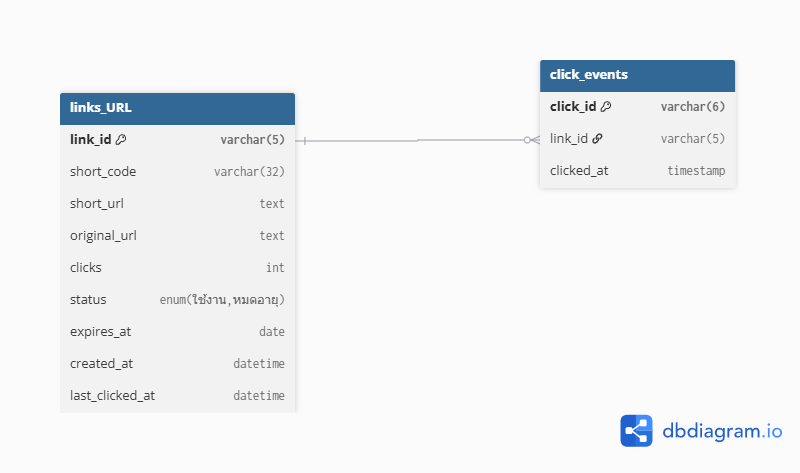
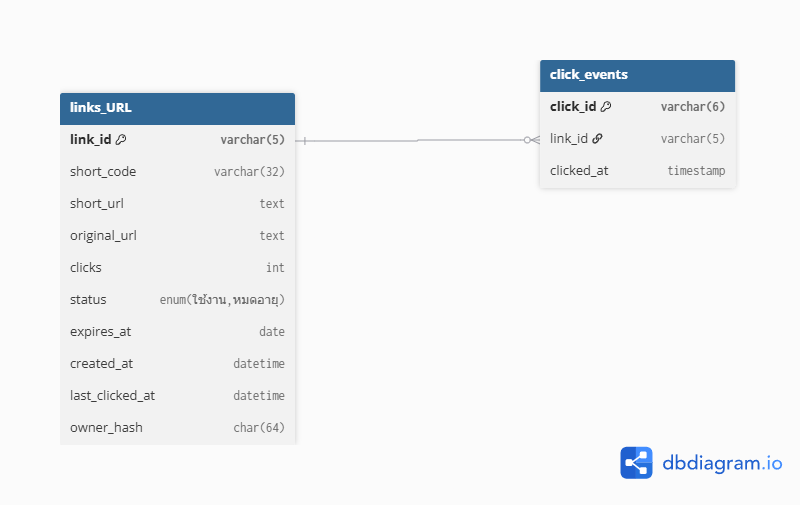
Scope link history to browser owners

diff --git a/Short_URL/src/App.jsx b/Short_URL/src/App.jsx
@@ -239,7 +239,7 @@ function App() {
         <section className="summary-grid" id="stats" aria-label="สถิติลิงก์">
           <article className="summary-card teal-card">
             <div className="summary-icon"><FiLink2 /></div>
-            <div><p>ลิงก์ทั้งหมด</p><strong>{links.length}</strong><small>เฉพาะลิงก์ที่คุณสร้าง</small></div>
+            <div><p>ลิงก์ทั้งหมด</p><strong>{links.length}</strong></div>
           </article>
           <article className="summary-card blue-card">
             <div className="summary-icon"><FiBarChart2 /></div>
@@ -258,7 +258,6 @@ function App() {
         <section className="recent" id="recent">
           <div className="section-title">
             <div>
-              <small>ลิงก์ของฉัน</small>
               <h2>ลิงก์ที่สร้างล่าสุด</h2>
             </div>
               <div className="live-status"><i /> อัปเดตเรียลไทม์</div>

diff --git a/backend/modals/Links_URL.php b/backend/modals/Links_URL.php
@@ -1,10 +1,11 @@
 <?php
 final class Links_URL {
- public $link_id=null; public $original_url=''; public $short_code=null; public $status='active'; public $expires_at=null; private $pdo; private $redirectUrl;
+ public $link_id=null; public $original_url=''; public $short_code=null; public $status='active'; public $expires_at=null; public $owner_hash=null; private $pdo; private $redirectUrl;
  public function __construct(PDO $pdo,string $redirectUrl){$this->pdo=$pdo;$this->redirectUrl=$redirectUrl;}
  private function rows(string $where=''):string { return "SELECT link_id,short_code,short_url,original_url,clicks,status,expires_at,created_at,last_clicked_at FROM links_URL $where"; }
- public function create():void { $url=filter_var(trim($this->original_url),FILTER_VALIDATE_URL); if(!$url||!in_array(strtolower(parse_url($url,PHP_URL_SCHEME)?:''),['http','https'],true))throw new InvalidArgumentException('กรุณากรอก URL ที่ขึ้นต้นด้วย http:// หรือ https://'); $code=trim((string)$this->short_code);if($code==='')$code=substr(bin2hex(random_bytes(5)),0,7);if(!preg_match('/^[A-Za-z0-9_-]{3,32}$/',$code))throw new InvalidArgumentException('นามแฝงใช้ได้เฉพาะ a-z, A-Z, 0-9, _ และ - จำนวน 3-32 ตัว');$driver=$this->pdo->getAttribute(PDO::ATTR_DRIVER_NAME);$numberSql=$driver==='mysql'?'CAST(SUBSTRING(link_id,2) AS UNSIGNED)':'CAST(SUBSTR(link_id,2) AS INTEGER)';$next=(int)$this->pdo->query("SELECT COALESCE(MAX($numberSql),0)+1 FROM links_URL")->fetchColumn();$this->link_id='L'.str_pad((string)$next,4,'0',STR_PAD_LEFT);$this->short_code=$code;$shortUrl=$this->redirectUrl.$code;$createdAt=gmdate('Y-m-d H:i:s');$s=$this->pdo->prepare('INSERT INTO links_URL(link_id,short_code,short_url,original_url,clicks,status,expires_at,created_at) VALUES(?,?,?,?,0,?,?,?)');$s->execute([$this->link_id,$code,$shortUrl,$url,$this->status,$this->expires_at,$createdAt]); }
+ public function create():void { $url=filter_var(trim($this->original_url),FILTER_VALIDATE_URL); if(!$url||!in_array(strtolower(parse_url($url,PHP_URL_SCHEME)?:''),['http','https'],true))throw new InvalidArgumentException('กรุณากรอก URL ที่ขึ้นต้นด้วย http:// หรือ https://'); $code=trim((string)$this->short_code);if($code==='')$code=substr(bin2hex(random_bytes(5)),0,7);if(!preg_match('/^[A-Za-z0-9_-]{3,32}$/',$code))throw new InvalidArgumentException('นามแฝงใช้ได้เฉพาะ a-z, A-Z, 0-9, _ และ - จำนวน 3-32 ตัว');$driver=$this->pdo->getAttribute(PDO::ATTR_DRIVER_NAME);$numberSql=$driver==='mysql'?'CAST(SUBSTRING(link_id,2) AS UNSIGNED)':'CAST(SUBSTR(link_id,2) AS INTEGER)';$next=(int)$this->pdo->query("SELECT COALESCE(MAX($numberSql),0)+1 FROM links_URL")->fetchColumn();$this->link_id='L'.str_pad((string)$next,4,'0',STR_PAD_LEFT);$this->short_code=$code;$shortUrl=$this->redirectUrl.$code;$createdAt=gmdate('Y-m-d H:i:s');$s=$this->pdo->prepare('INSERT INTO links_URL(link_id,short_code,short_url,original_url,clicks,status,expires_at,created_at,owner_hash) VALUES(?,?,?,?,0,?,?,?,?)');$s->execute([$this->link_id,$code,$shortUrl,$url,$this->status,$this->expires_at,$createdAt,$this->owner_hash]); }
  public function read():PDOStatement{return $this->pdo->query($this->rows('ORDER BY created_at DESC'));}
+ public function readForOwner(string $ownerHash):PDOStatement{$s=$this->pdo->prepare($this->rows('WHERE owner_hash=? ORDER BY created_at DESC'));$s->execute([$ownerHash]);return $s;}
  public function readById(string $id):PDOStatement{$s=$this->pdo->prepare($this->rows('WHERE link_id=?'));$s->execute([$id]);return $s;}
  public function update():void{$s=$this->pdo->prepare('UPDATE links_URL SET original_url=?,status=?,expires_at=? WHERE link_id=?');$s->execute([$this->original_url,$this->status,$this->expires_at,$this->link_id]);}
  public function deleteByLinkId(string $id):bool{$s=$this->pdo->prepare('DELETE FROM links_URL WHERE link_id=?');$s->execute([$id]);return $s->rowCount()>0;}

diff --git a/backend/config/database.php b/backend/config/database.php
@@ -3,12 +3,17 @@ final class Database
 {
     public function getConnection()
     {
+        $localConfigPath = __DIR__ . '/database.local.php';
+        $localConfig = is_file($localConfigPath) ? require $localConfigPath : [];
+        if (!is_array($localConfig)) {
+            throw new RuntimeException('Invalid local database configuration');
+        }
         $isProduction = isset($_SERVER['HTTP_HOST']) && stripos($_SERVER['HTTP_HOST'], 'short-url.lnw.mn') !== false;
         $dsn          = getenv('DB_DSN') ?: ($isProduction
                 ? 'mysql:host=localhost;dbname=shorturlln_short_url;charset=utf8mb4'
                 : 'sqlite:' . __DIR__ . '/../data/short_url.sqlite');
         $username = getenv('DB_USERNAME') ?: ($isProduction ? 'shorturlln_short_url' : null);
-        $password = getenv('DB_PASSWORD') ?: null;
+        $password = getenv('DB_PASSWORD') ?: ($localConfig['password'] ?? null);
         if (strpos($dsn, 'sqlite:') === 0) {
             $directory = dirname(substr($dsn, 7));
             if (! is_dir($directory)) {
@@ -23,8 +28,10 @@ final class Database
         ]);
         if ($pdo->getAttribute(PDO::ATTR_DRIVER_NAME) === 'sqlite') {
             self::ensureSchema($pdo);
+            self::ensureOwnerColumn($pdo);
         } else {
             self::migrateMysqlSchema($pdo);
+            self::ensureOwnerColumn($pdo);
             if ($isProduction) {
                 $pdo->exec("UPDATE links_URL SET short_url = CONCAT('https://short-url.lnw.mn/', short_code) WHERE short_url LIKE '%/api/redirect.php?code=%'");
             }
@@ -48,9 +55,23 @@ final class Database
     {
         $driver = $pdo->getAttribute(PDO::ATTR_DRIVER_NAME);
         $id     = $driver === 'mysql' ? 'INTEGER PRIMARY KEY AUTO_INCREMENT' : 'INTEGER PRIMARY KEY AUTOINCREMENT';
-        $pdo->exec("CREATE TABLE IF NOT EXISTS links_URL (id $id, link_id VARCHAR(5) NOT NULL UNIQUE, short_code VARCHAR(32) NOT NULL UNIQUE, short_url TEXT NOT NULL, original_url TEXT NOT NULL, clicks INTEGER NOT NULL DEFAULT 0, status VARCHAR(20) NOT NULL DEFAULT 'active', expires_at DATE NULL, created_at DATETIME NOT NULL DEFAULT CURRENT_TIMESTAMP, last_clicked_at DATETIME NULL)");
+        $pdo->exec("CREATE TABLE IF NOT EXISTS links_URL (id $id, link_id VARCHAR(5) NOT NULL UNIQUE, short_code VARCHAR(32) NOT NULL UNIQUE, short_url TEXT NOT NULL, original_url TEXT NOT NULL, clicks INTEGER NOT NULL DEFAULT 0, status VARCHAR(20) NOT NULL DEFAULT 'active', expires_at DATE NULL, created_at DATETIME NOT NULL DEFAULT CURRENT_TIMESTAMP, last_clicked_at DATETIME NULL, owner_hash CHAR(64) NULL)");
         $pdo->exec("CREATE TABLE IF NOT EXISTS click_events (id $id, click_id VARCHAR(6) NOT NULL UNIQUE, link_id VARCHAR(5) NOT NULL, clicked_at DATETIME NOT NULL DEFAULT CURRENT_TIMESTAMP, FOREIGN KEY (link_id) REFERENCES links_URL(link_id) ON DELETE CASCADE)");
         try { $pdo->exec('CREATE INDEX idx_click_events_link_id ON click_events(link_id)');} catch (PDOException $e) {}
+    }
+
+    private static function ensureOwnerColumn(PDO $pdo): void
+    {
+        $driver = $pdo->getAttribute(PDO::ATTR_DRIVER_NAME);
+        if ($driver === 'sqlite') {
+            $columns = $pdo->query('PRAGMA table_info(links_URL)')->fetchAll();
+            $names = array_column($columns, 'name');
+        } else {
+            $names = $pdo->query('SHOW COLUMNS FROM links_URL')->fetchAll(PDO::FETCH_COLUMN);
+        }
+        if (!in_array('owner_hash', $names, true)) {
+            $pdo->exec('ALTER TABLE links_URL ADD COLUMN owner_hash CHAR(64) NULL');
+        }
     }
 }
 $pdo = (new Database())->getConnection();

diff --git a/backend/api/bootstrap.php b/backend/api/bootstrap.php
@@ -30,8 +30,40 @@ function validateClickId($v): string
     return $v;}
 function baseUrl(): string
 {$scheme = (! empty($_SERVER['HTTPS']) && $_SERVER['HTTPS'] !== 'off') ? 'https' : 'http';return $scheme . '://' . ($_SERVER['HTTP_HOST'] ?? 'localhost:8000') . '/';}
+function browserOwnerHash(): string
+{
+    $cookieName = 'short_url_browser';
+    $token = $_COOKIE[$cookieName] ?? null;
+    if (!is_string($token) || !preg_match('/^[a-f0-9]{64}$/', $token)) {
+        $token = bin2hex(random_bytes(32));
+        setcookie($cookieName, $token, [
+            'expires' => time() + 63072000,
+            'path' => '/',
+            'secure' => !empty($_SERVER['HTTPS']) && $_SERVER['HTTPS'] !== 'off',
+            'httponly' => true,
+            'samesite' => 'Lax',
+        ]);
+        $_COOKIE[$cookieName] = $token;
+    }
+    return hash('sha256', $token);
+}
+function requireLinkOwner(array $link): void
+{
+    $ownerHash = $link['owner_hash'] ?? null;
+    if (!is_string($ownerHash) || !hash_equals($ownerHash, browserOwnerHash())) {
+        sendJson(['message' => 'ไม่พบลิงก์'], 404);
+    }
+}
+function requireOwnedLink(PDO $pdo, string $linkId): void
+{
+    $stmt = $pdo->prepare('SELECT owner_hash FROM links_URL WHERE link_id = ?');
+    $stmt->execute([$linkId]);
+    $link = $stmt->fetch();
+    if ($link === false) sendJson(['message' => 'ไม่พบลิงก์'], 404);
+    requireLinkOwner($link);
+}
 function lockLink(PDO $pdo, string $id): ?array
-{$s = $pdo->prepare('SELECT link_id,short_code,short_url,original_url,clicks,status,expires_at,created_at,last_clicked_at FROM links_URL WHERE link_id=?');
+{$s = $pdo->prepare('SELECT link_id,short_code,short_url,original_url,clicks,status,expires_at,created_at,last_clicked_at,owner_hash FROM links_URL WHERE link_id=?');
     $s->execute([$id]);return $s->fetch() ?: null;}
 function syncClickStats(PDO $pdo, string $id): void
 {$s = $pdo->prepare('UPDATE links_URL SET clicks=(SELECT COUNT(*) FROM click_events WHERE link_id=?),last_clicked_at=(SELECT MAX(clicked_at) FROM click_events WHERE link_id=?) WHERE link_id=?');

diff --git a/backend/api/click_events/read.php b/backend/api/click_events/read.php
@@ -8,11 +8,12 @@ $event = new Click_Events($pdo);
 if (isset($_GET['link_id'])) {
     
     $linkId = validateLinkId($_GET['link_id']);
+    requireOwnedLink($pdo, $linkId);
     $stmt = $event->readByLinkId($linkId);
     
 } else {
-
-    $stmt = $event->read();
+    $stmt = $pdo->prepare('SELECT c.click_id, c.link_id, c.clicked_at FROM click_events c JOIN links_URL l ON l.link_id = c.link_id WHERE l.owner_hash = ? ORDER BY c.clicked_at DESC');
+    $stmt->execute([browserOwnerHash()]);
 
 }
 

diff --git a/backend/api/click_events/update.php b/backend/api/click_events/update.php
@@ -51,6 +51,11 @@ $newLinkId = array_key_exists('link_id', $data)
     ? validateLinkId($data['link_id'])
     : $oldLinkId;
 
+requireOwnedLink($pdo, $oldLinkId);
+if ($newLinkId !== $oldLinkId) {
+    requireOwnedLink($pdo, $newLinkId);
+}
+
 $pdo->beginTransaction();
 
 $linkIds = array_unique([$oldLinkId, $newLinkId]);

diff --git a/backend/api/links_URL/read.php b/backend/api/links_URL/read.php
@@ -9,6 +9,6 @@ requireMethod('GET');
 
 $link = new Links_URL($pdo, $redirectUrl);
 
-$rows = array_map([$link, 'withShortUrl'], $link->read()->fetchAll());
+$rows = array_map([$link, 'withShortUrl'], $link->readForOwner(browserOwnerHash())->fetchAll());
 
 sendJson(['data' => $rows]);

diff --git a/backend/api/click_events/delete.php b/backend/api/click_events/delete.php
@@ -12,6 +12,7 @@ if ($initial === false) {
     sendJson(['message' => 'ไม่พบประวัติการคลิก'], 404);
 }
 $linkId = $initial['link_id'];
+requireOwnedLink($pdo, $linkId);
 $pdo->beginTransaction();
 
 if (lockLink($pdo, $linkId) === null) {

diff --git a/backend/api/click_events/create.php b/backend/api/click_events/create.php
@@ -7,6 +7,7 @@ require_once __DIR__ . '/../bootstrap.php';
 requireMethod('POST');
 $data = readJson();
 $linkId = validateLinkId($data['link_id'] ?? null);
+requireOwnedLink($pdo, $linkId);
 $pdo->beginTransaction();
 $link = lockLink($pdo, $linkId);
 if ($link === null) {

diff --git a/backend/api/click_events/read_one.php b/backend/api/click_events/read_one.php
@@ -10,4 +10,5 @@ $row = $event->readById($clickId)->fetch();
 if ($row === false) {
     sendJson(['message' => 'ไม่พบประวัติการคลิก'], 404);
 }
+requireOwnedLink($pdo, $row['link_id']);
 sendJson(['data' => $row]);

diff --git a/backend/api/links_URL/read_one.php b/backend/api/links_URL/read_one.php
@@ -8,6 +8,7 @@ require_once __DIR__ . '/../bootstrap.php';
 requireMethod('GET');
 
 $linkId = validateLinkId($_GET['link_id'] ?? null);
+requireOwnedLink($pdo, $linkId);
 
 $link = new Links_URL($pdo, $redirectUrl);
 

diff --git a/backend/api/links_URL/update.php b/backend/api/links_URL/update.php
@@ -9,6 +9,7 @@ requireMethod('PUT');
 $data = readJson();
 
 $linkId = validateLinkId($data['link_id'] ?? null);
+requireOwnedLink($pdo, $linkId);
 
 $editableFields = ['original_url', 'status', 'expires_at'];
 
